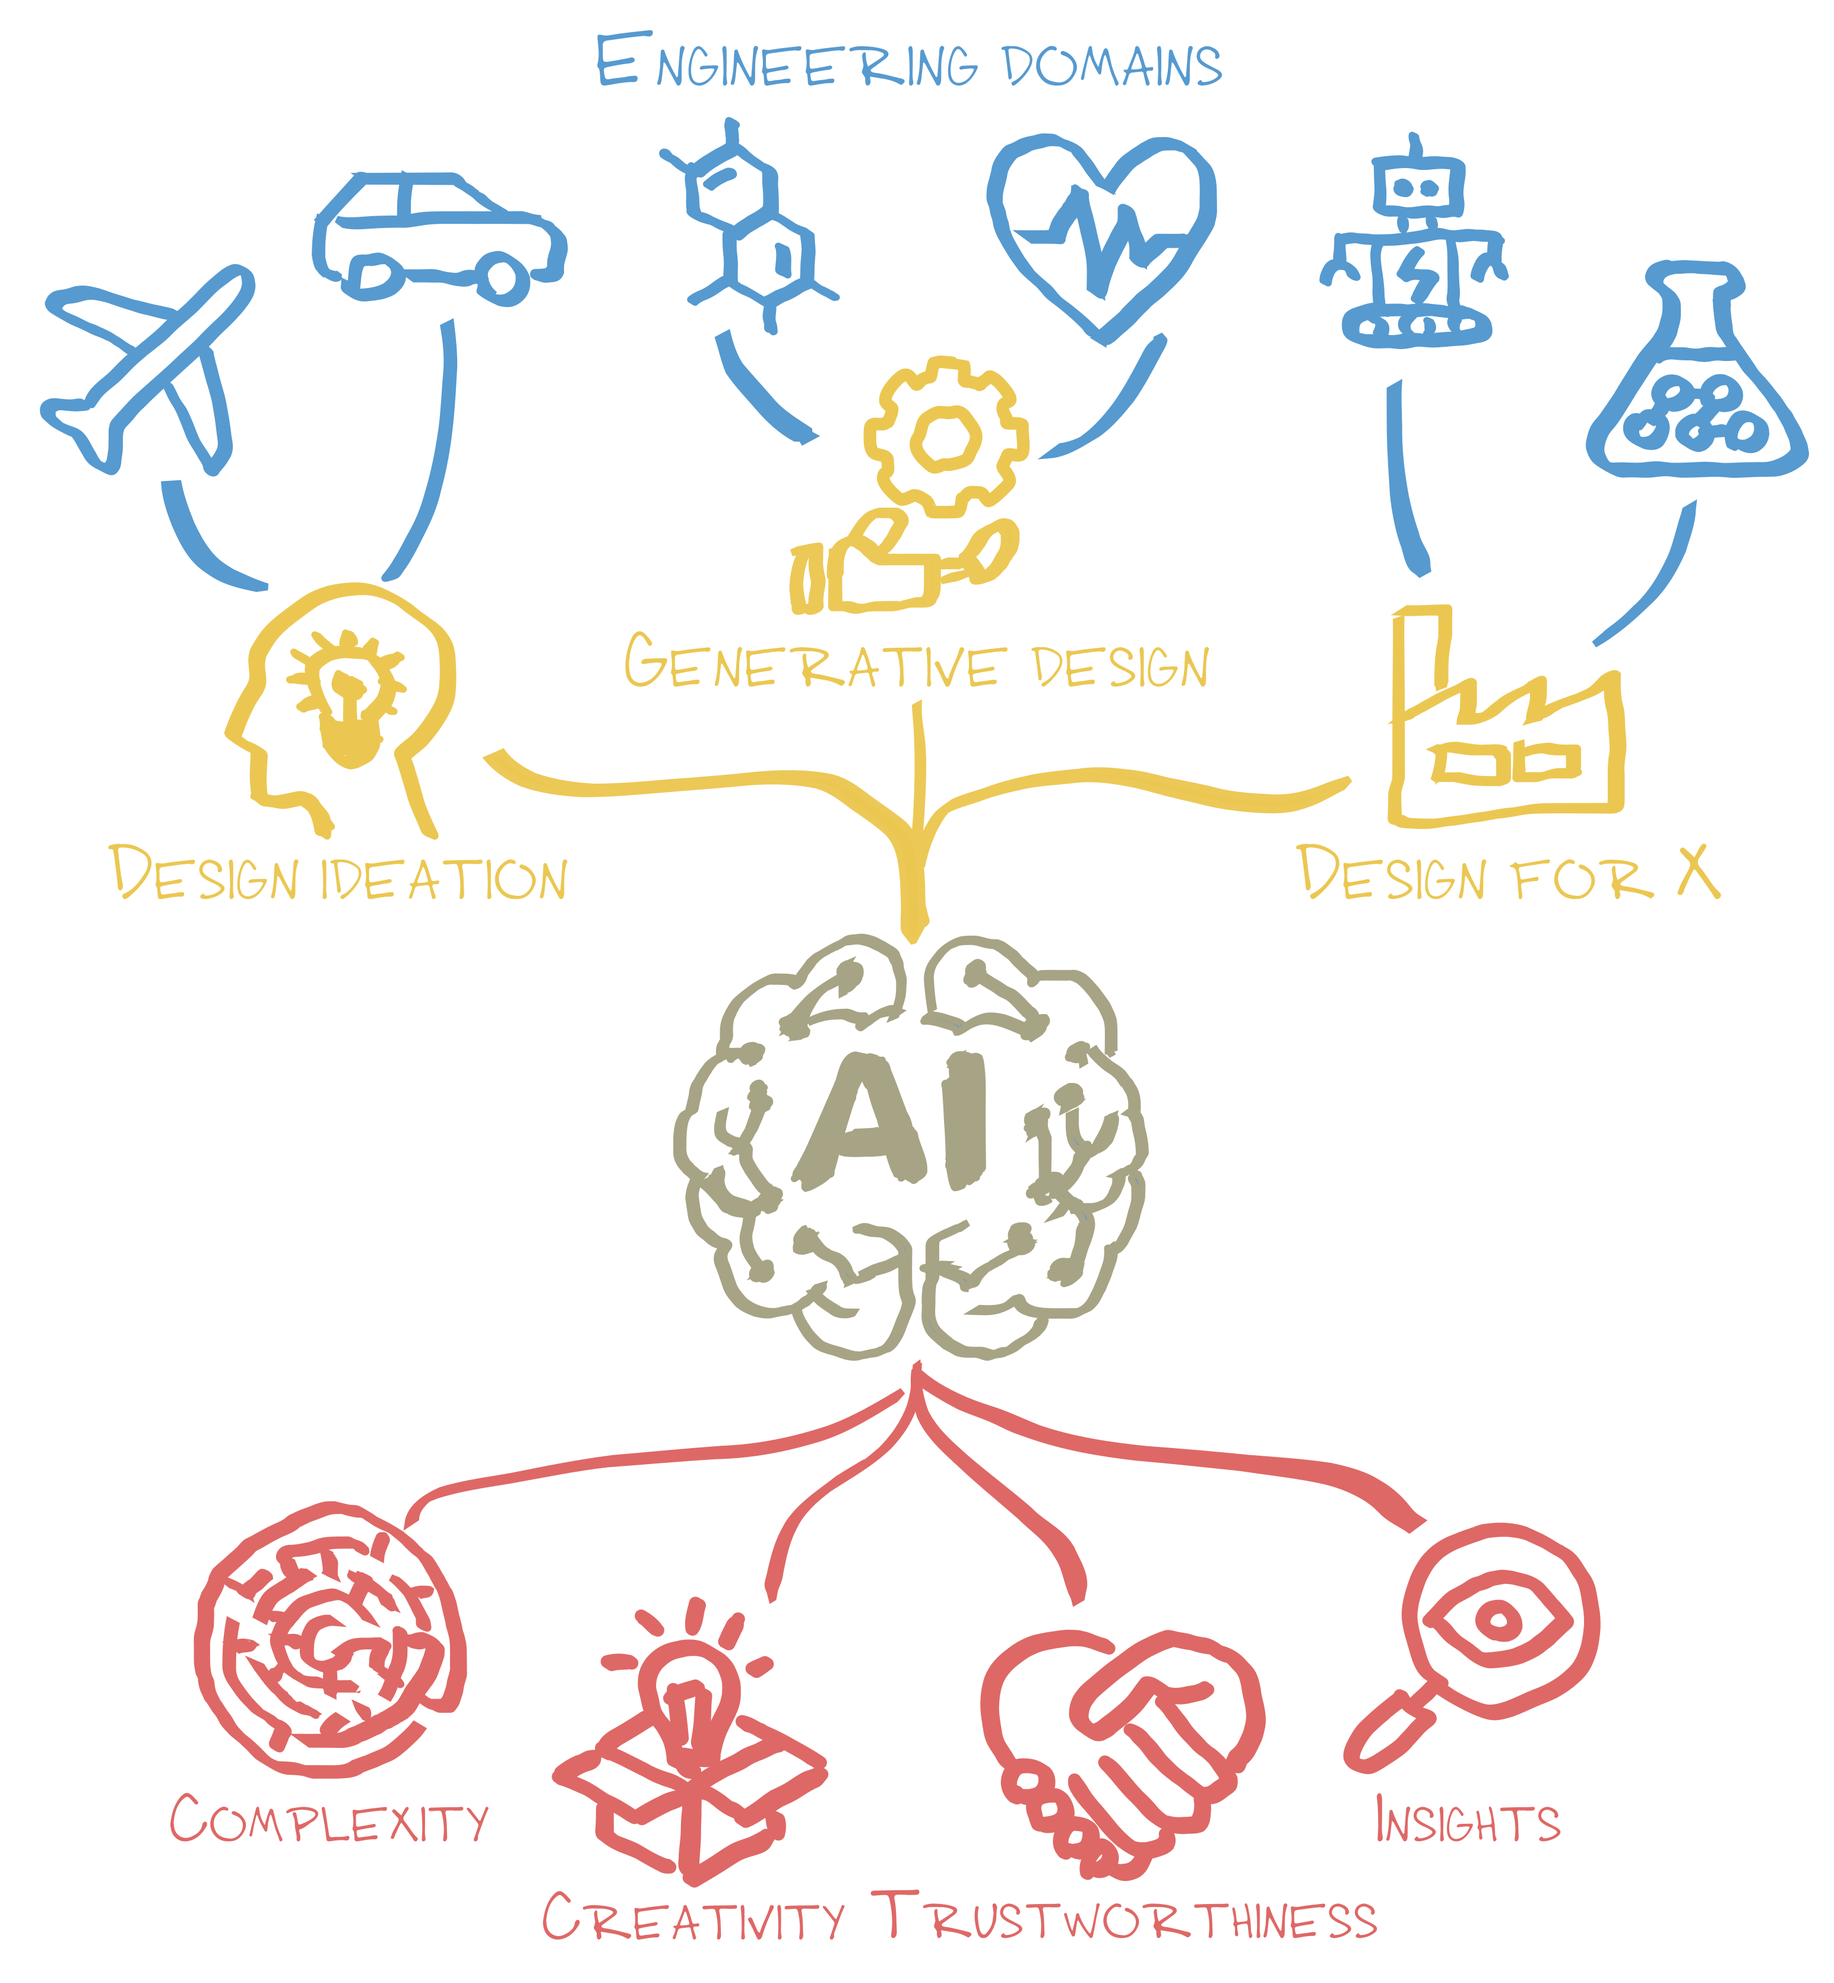
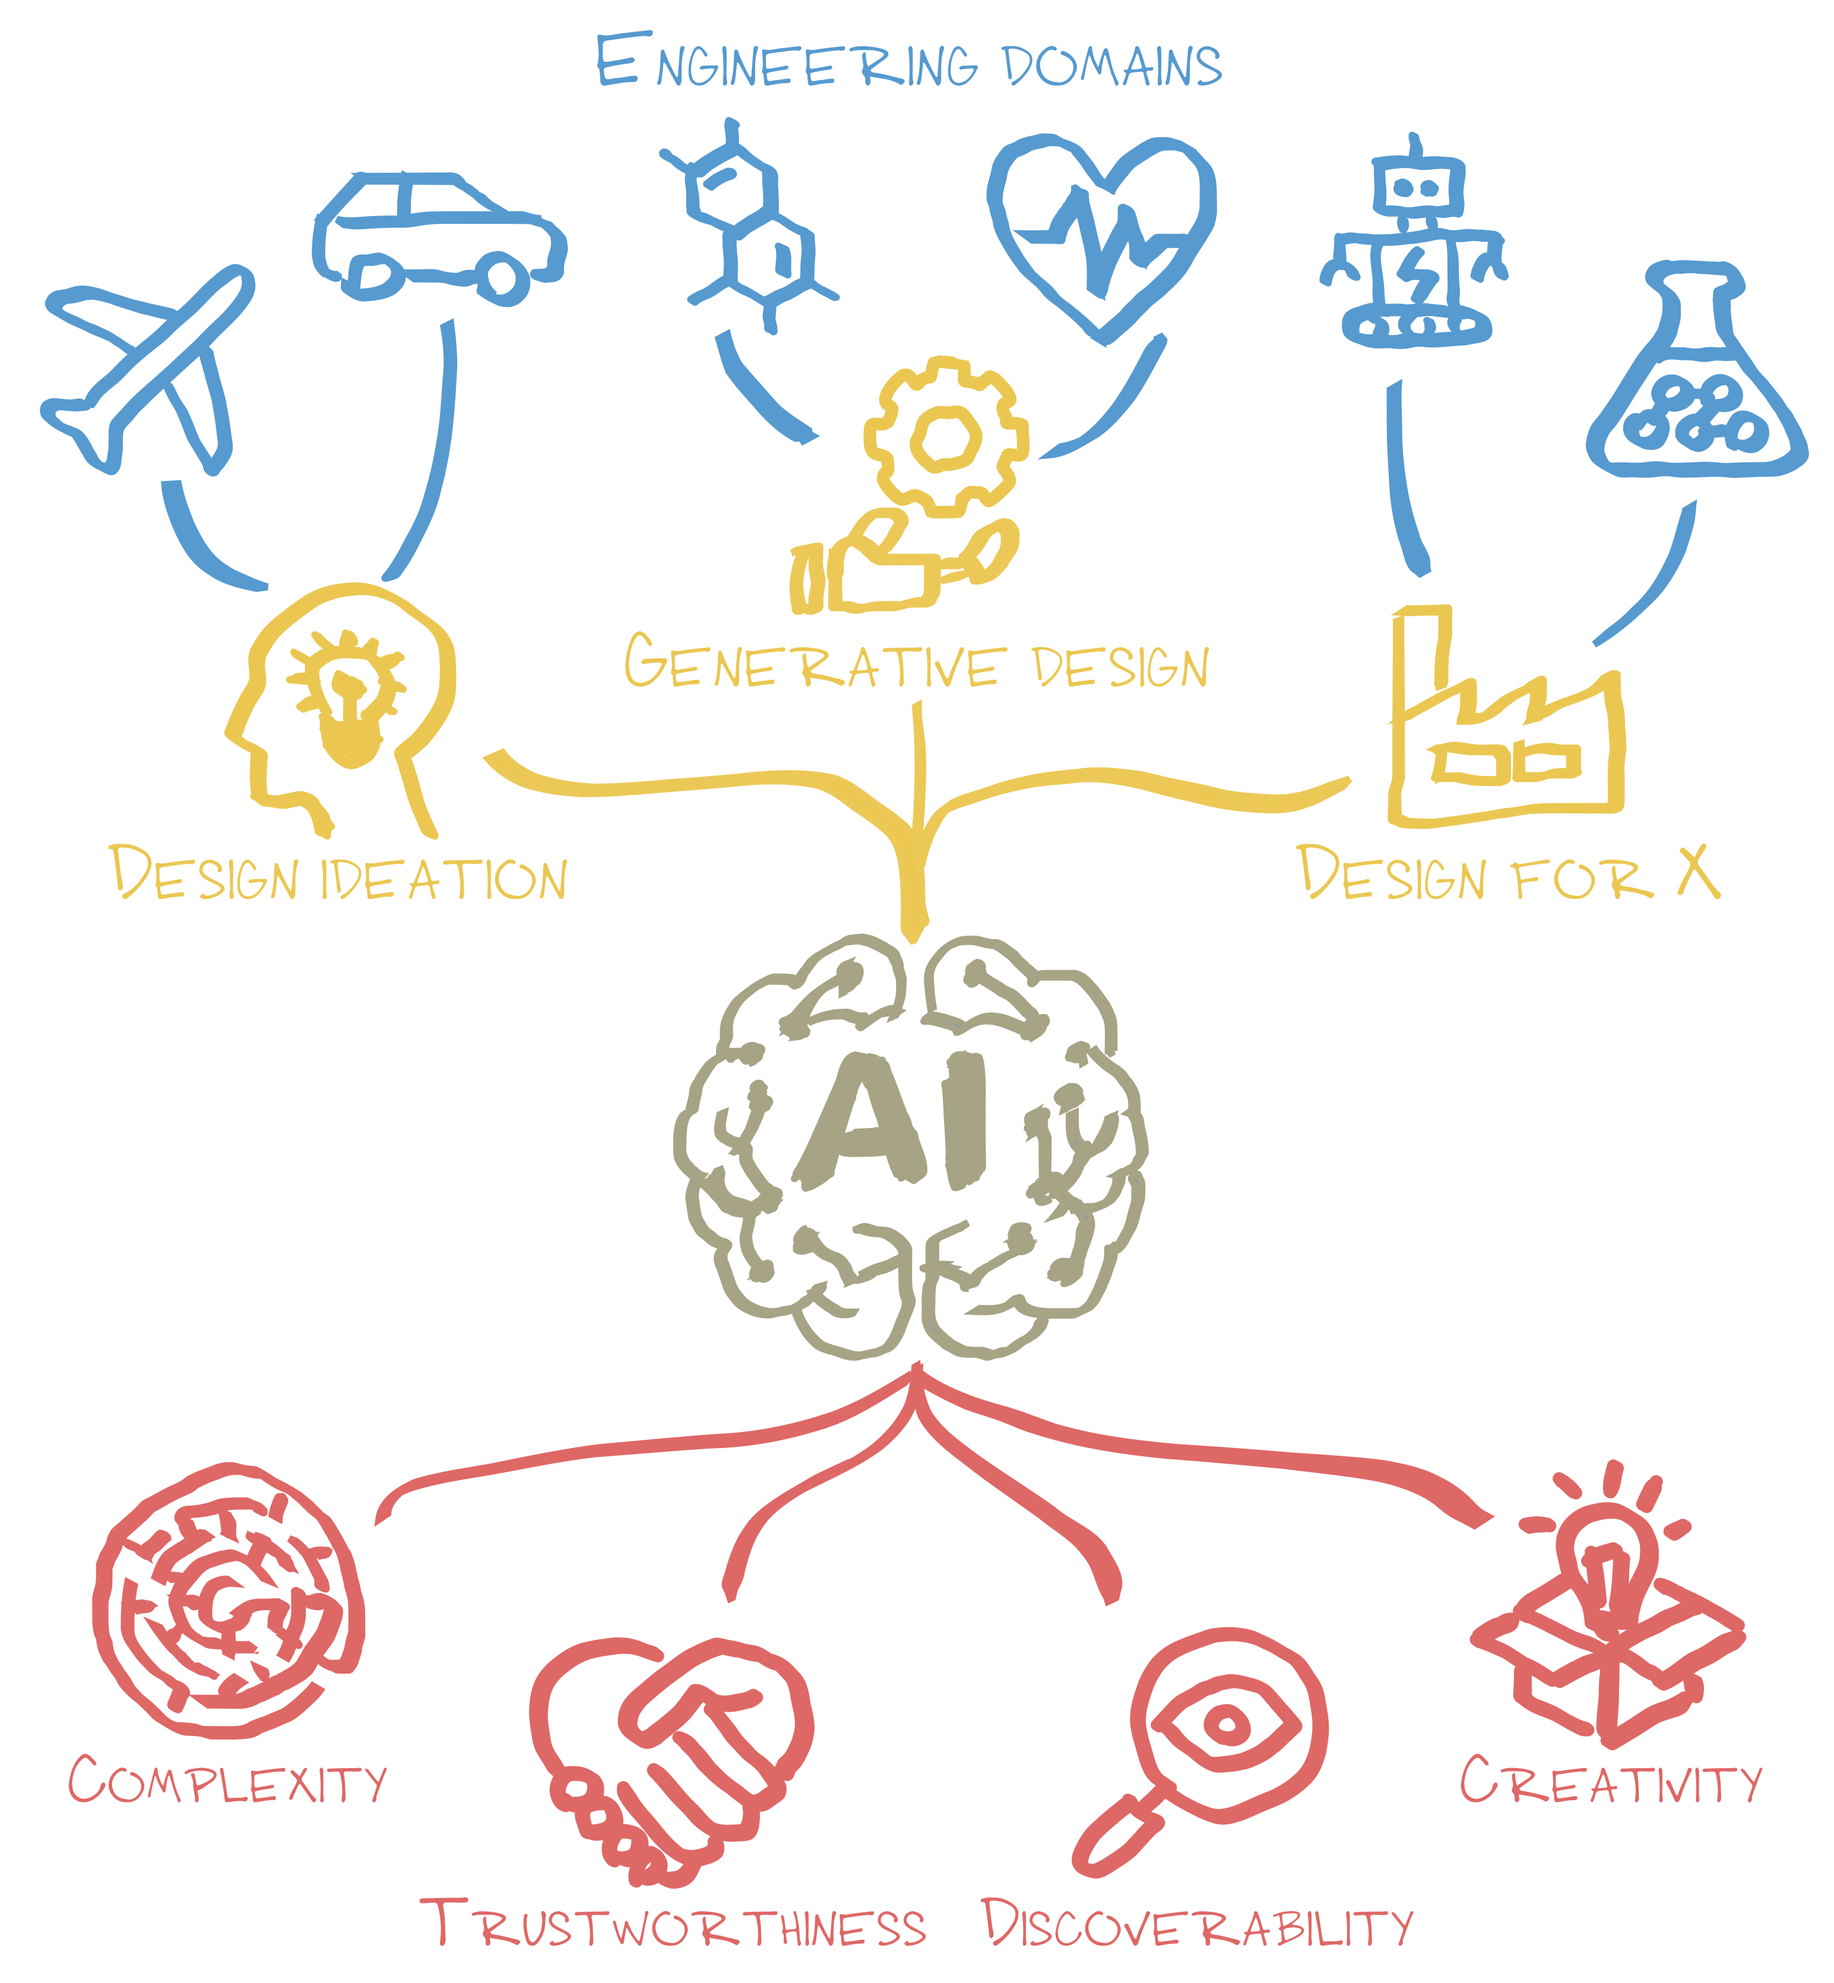
modified research description

Changed region(s): [[0.0311, 0.685, 0.9634, 0.9964]]

diff --git a/content/research/index.md b/content/research/index.md
@@ -10,9 +10,9 @@ banner:
 Research in the DIGIT Lab aims to answer this overarching question: *How can AI design better materials, structures, and machines?* We look beyond model performance and efficiency to focus on four key challenges: 
 
 1. **Complexity.** Advances in manufacturing technology have unlocked significant design complexity, directly resulting in dramatic improvements in functional capabilities. Yet, this potential is often constrained by the limits of human-led design. The gap between what we can *build* and what we can *design* highlights a fundamental challenge in modern engineering. Our work confronts this challenge by exploring the question: *How can AI unlock design complexities that are fundamentally inaccessible to traditional methods?*
-2. **Creativity.** Human creativity is constrained by individual knowledge and experience, with outcomes often highly uncertain. Meanwhile, today’s AI excels at generalizing within the boundaries of existing data and knowledge instead of generating genuinely new ideas. To transform AI from a tool of interpolation into an engine for innovation, we must answer a critical question: *How can AI enable or accelerate the discovery of "out-of-the-box" design solutions?*
-3. **Trustworthiness.** For AI-generated designs to be adopted in critical, high-stakes applications, engineers must be able to trust them. Many powerful AI models operate as "black boxes," providing solutions without clear explanations or uncertainty quantification. This lack of transparency creates a significant barrier to adoption. Our research aims to answer the question: *How can we develop AI-driven design methodologies that engineers can trust?*
-4. **Insights.** The ultimate promise of AI in design is not just to create better products, but to make us better designers. We aim to develop methods that can decode the complex patterns learned by AI into human-understandable knowledge, such as new design rules or unknown structure-property relationships. This goal drives our research to answer a fundamental question: *How can AI generate new knowledge that expands human understanding and guides design?* 
+2. **Trustworthiness.** For AI-generated designs to be adopted in engineering, especially safety-critical applications, engineers must be able to trust them. Many powerful AI models operate as "black boxes," providing solutions without clear explanations or uncertainty quantification. This lack of transparency creates a significant barrier to adoption. Our research aims to answer the question: *How can we develop AI-driven design methodologies that engineers can trust?*
+3. **Discoverability.** The ultimate promise of AI in design is not just to create better products, but to make us better designers. We aim to develop methods that can decode the complex patterns learned by AI into human-understandable knowledge, such as new design rules or unknown structure-property relationships. This goal drives our research to answer a fundamental question: *How can AI discover new knowledge that expands human understanding and guides design?* 
+4. **Creativity.** Human creativity is constrained by individual knowledge and experience, with outcomes often highly uncertain. Meanwhile, today’s AI excels at generalizing within the boundaries of existing data and knowledge instead of generating genuinely new ideas. To transform AI from a tool of interpolation into an engine for innovation, we must answer a critical question: *How can AI enable or accelerate the discovery of "out-of-the-box" design solutions and become a true inventor?*
 
 Guided by these fundamental questions, we develop computational methodologies for design ideation, generative design, and design for X ("X" can represent manufacturing, sustainability, reliability, and beyond) across diverse engineering domains.
 

diff --git a/content/_index.md b/content/_index.md
@@ -15,9 +15,9 @@ sections:
           In the <u>D</u>esign <u>I</u>nnovation & <u>G</u>enerative <u>I</u>n<u>t</u>elligence (DIGIT) Lab, we study **how AI can design better materials, structures, and machines**. Our research focus extends beyond model performance and efficiency, exploring how AI can fundamentally advance design across four key dimensions: 
 
           1. **Complexity:** How can AI unlock design complexities that are fundamentally inaccessible to traditional methods?
-          2. **Creativity:** How can AI enable or accelerate the discovery of "out-of-the-box" design solutions?
-          3. **Trustworthiness:** How can we develop AI-driven design methodologies that engineers can trust?
-          4. **Insights:** How can AI generate new knowledge that expands human understanding and guides design? 
+          2. **Trustworthiness:** How can we develop AI-driven design methodologies that engineers can trust?
+          3. **Discoverability:** How can AI discover new knowledge that expands human understanding and guides design? 
+          4. **Creativity:** How can AI enable or accelerate the discovery of "out-of-the-box" design solutions and become a true inventor?
 
           Guided by these fundamental questions, we develop computational methodologies for design ideation, generative design, and design for X ("X" can represent manufacturing, sustainability, reliability, and beyond) across diverse engineering domains.
 
